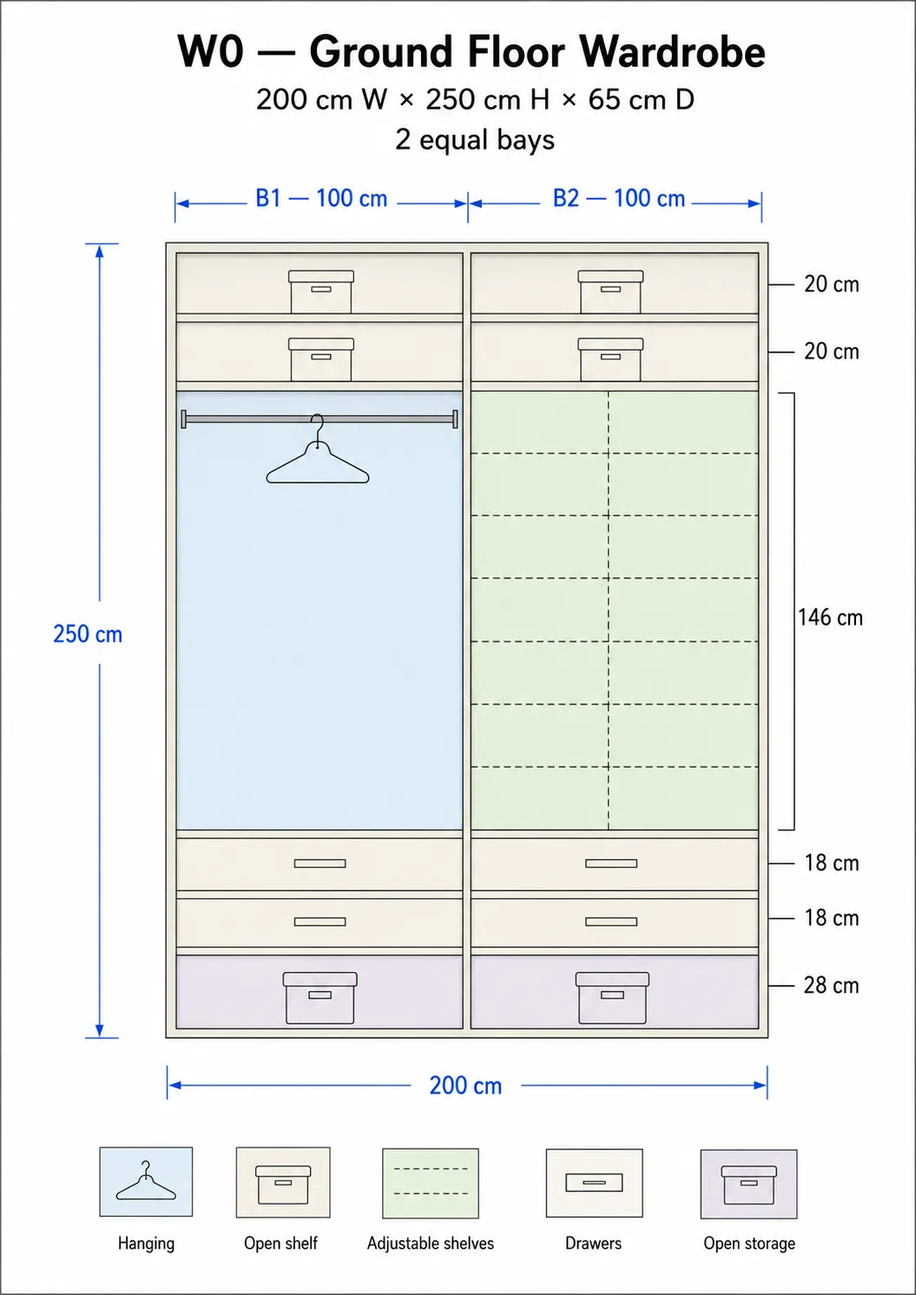
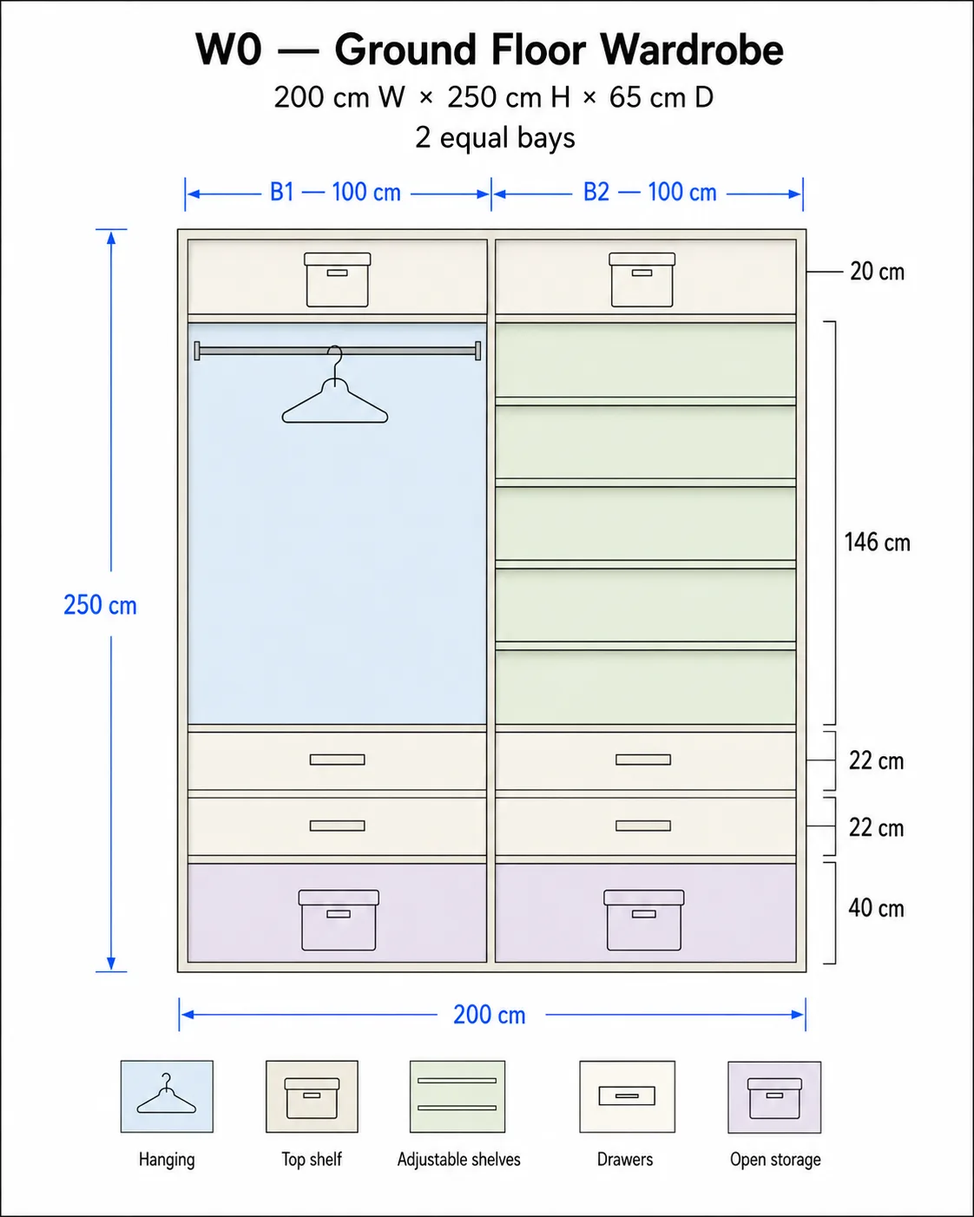
Publish site from source repo

Changed region(s): [[0.091, 0.1227, 0.9403, 0.9815], [0.182, 0.0, 0.8493, 0.1227], [0.0607, 0.184, 0.1517, 0.8281]]

diff --git a/home/jobs/2026/07/29/build-fitted-wardrobes-in-two-bedrooms/index.html b/home/jobs/2026/07/29/build-fitted-wardrobes-in-two-bedrooms/index.html
@@ -1,4 +1,4 @@
-<!DOCTYPE html><html lang="en"> <head><meta charset="utf-8"><link rel="icon" type="image/svg+xml" href="/favicon.svg"><link rel="icon" type="image/png" sizes="96x96" href="/favicon-96x96.png"><link rel="icon" href="/favicon.ico"><link rel="apple-touch-icon" sizes="180x180" href="/apple-touch-icon.png"><link rel="manifest" href="/site.webmanifest"><meta name="viewport" content="width=device-width, initial-scale=1"><meta name="generator" content="Astro v6.1.5"><meta name="description" content="Make and install two internally lit fitted wardrobes with matt solid-colour shaker doors, one on the ground floor and one on the first floor, to the dimensions and internal layouts specified."><meta name="author" content="Rahul Goma Phulore"><meta name="robots" content="noindex,nofollow"><meta name="theme-color" content="#fdf6e3"><link rel="canonical" href="https://rahul.london/home/jobs/2026/07/29/build-fitted-wardrobes-in-two-bedrooms/"><link rel="alternate" type="application/rss+xml" title="rahul.london RSS" href="https://rahul.london/rss.xml"><meta property="og:site_name" content="rahul.london"><meta property="og:locale" content="en_GB"><meta property="og:type" content="website"><meta property="og:title" content="Build fitted wardrobes in two bedrooms — Home jobs"><meta property="og:description" content="Make and install two internally lit fitted wardrobes with matt solid-colour shaker doors, one on the ground floor and one on the first floor, to the dimensions and internal layouts specified."><meta property="og:url" content="https://rahul.london/home/jobs/2026/07/29/build-fitted-wardrobes-in-two-bedrooms/"><meta name="twitter:card" content="summary"><meta name="twitter:title" content="Build fitted wardrobes in two bedrooms — Home jobs"><meta name="twitter:description" content="Make and install two internally lit fitted wardrobes with matt solid-colour shaker doors, one on the ground floor and one on the first floor, to the dimensions and internal layouts specified."><meta name="twitter:creator" content="@missingfaktor"><link rel="preconnect" href="https://fonts.googleapis.com"><link rel="preconnect" href="https://fonts.gstatic.com" crossorigin><link rel="stylesheet" href="https://fonts.googleapis.com/css2?family=Spline+Sans:wght@400;500;600;700&display=swap"><title>Build fitted wardrobes in two bedrooms — Home jobs</title><!-- Apply saved theme before first paint to avoid flash --><script>
+<!DOCTYPE html><html lang="en"> <head><meta charset="utf-8"><link rel="icon" type="image/svg+xml" href="/favicon.svg"><link rel="icon" type="image/png" sizes="96x96" href="/favicon-96x96.png"><link rel="icon" href="/favicon.ico"><link rel="apple-touch-icon" sizes="180x180" href="/apple-touch-icon.png"><link rel="manifest" href="/site.webmanifest"><meta name="viewport" content="width=device-width, initial-scale=1"><meta name="generator" content="Astro v6.1.5"><meta name="description" content="Make and install two internally lit fitted wardrobes with matt solid-colour shaker doors, one on the ground floor and one on the first floor, to the dimensions and internal layouts shown in the schematics."><meta name="author" content="Rahul Goma Phulore"><meta name="robots" content="noindex,nofollow"><meta name="theme-color" content="#fdf6e3"><link rel="canonical" href="https://rahul.london/home/jobs/2026/07/29/build-fitted-wardrobes-in-two-bedrooms/"><link rel="alternate" type="application/rss+xml" title="rahul.london RSS" href="https://rahul.london/rss.xml"><meta property="og:site_name" content="rahul.london"><meta property="og:locale" content="en_GB"><meta property="og:type" content="website"><meta property="og:title" content="Build fitted wardrobes in two bedrooms — Home jobs"><meta property="og:description" content="Make and install two internally lit fitted wardrobes with matt solid-colour shaker doors, one on the ground floor and one on the first floor, to the dimensions and internal layouts shown in the schematics."><meta property="og:url" content="https://rahul.london/home/jobs/2026/07/29/build-fitted-wardrobes-in-two-bedrooms/"><meta name="twitter:card" content="summary"><meta name="twitter:title" content="Build fitted wardrobes in two bedrooms — Home jobs"><meta name="twitter:description" content="Make and install two internally lit fitted wardrobes with matt solid-colour shaker doors, one on the ground floor and one on the first floor, to the dimensions and internal layouts shown in the schematics."><meta name="twitter:creator" content="@missingfaktor"><link rel="preconnect" href="https://fonts.googleapis.com"><link rel="preconnect" href="https://fonts.gstatic.com" crossorigin><link rel="stylesheet" href="https://fonts.googleapis.com/css2?family=Spline+Sans:wght@400;500;600;700&display=swap"><title>Build fitted wardrobes in two bedrooms — Home jobs</title><!-- Apply saved theme before first paint to avoid flash --><script>
       (function () {
         var cookieMatch = document.cookie.match(/(?:^|; )theme=([^;]+)/);
         var stored =
@@ -15,7 +15,7 @@ Home jobs
 All jobs
 </a> </nav> </header>  <a class="job-back" href="/home/jobs/">← All jobs</a> <article class="job-detail"> <header class="job-detail__header"> <div class="job-detail__eyebrow"> <span class="job-status job-status--open"> <span class="job-status__dot" aria-hidden="true"></span> Open </span> <span class="job-priority job-priority--medium"> Medium priority
 </span> </div> <h1>Build fitted wardrobes in two bedrooms</h1> <p class="job-detail__posted">
-Posted on <time datetime="2026-07-29"> 29 July 2026 </time> </p> </header> <div class="job-description"> <p>Neither the ground-floor bedroom nor the first-floor second bedroom has any built-in storage. Two fitted wardrobes are to be made and installed against the walls shown in the model views, to the dimensions and internal layouts set out below.</p><div class="job-description__list"> <p>Overall carcass sizes, both <strong>65 cm deep</strong>:</p> <ul><li>Ground floor — <strong>200 cm wide × 250 cm high</strong>, in <strong>2 equal bays of 100 cm</strong>.</li><li>First floor — <strong>260 cm wide × 207 cm high</strong>, in <strong>3 equal bays of 86.7 cm</strong>.</li></ul> </div><div class="job-carousel" data-job-carousel aria-label="Model views of both wardrobes"> <div class="job-carousel__viewport" id="build-fitted-wardrobes-in-two-bedrooms-photos-3" tabindex="0"> <div class="job-carousel__track"> <figure class="job-carousel__slide" role="group" aria-roledescription="slide" aria-label="1 of 2"> <a href="/images/home/jobs/build-fitted-wardrobes-in-two-bedrooms/ground-floor-model.webp" target="_blank" rel="noopener"> <img src="/images/home/jobs/build-fitted-wardrobes-in-two-bedrooms/ground-floor-model.webp" alt="Model view of a bedroom corner with a green four-door wardrobe along one wall, dimensioned 2.50 m high, 2.00 m wide and 0.65 m deep, next to a bay window." loading="lazy"> </a> <figcaption> <span>Ground-floor wardrobe in position, with hinged doors and a separate run of doors across the top compartments.</span> <strong>Reference</strong> </figcaption> </figure><figure class="job-carousel__slide" role="group" aria-roledescription="slide" aria-label="2 of 2"> <a href="/images/home/jobs/build-fitted-wardrobes-in-two-bedrooms/first-floor-model.webp" target="_blank" rel="noopener"> <img src="/images/home/jobs/build-fitted-wardrobes-in-two-bedrooms/first-floor-model.webp" alt="Model view of a bedroom with a deep red six-door wardrobe along one wall, dimensioned 2.07 m high, 2.60 m wide and 0.65 m deep." loading="lazy"> </a> <figcaption> <span>First-floor wardrobe in position, three bays wide with two doors to each bay.</span> <strong>Reference</strong> </figcaption> </figure> </div> </div>  <p class="job-carousel__count" aria-live="polite"> <span data-carousel-current>1</span> / 2 </p> <div class="job-carousel__controls"> <button type="button" data-carousel-previous aria-controls="build-fitted-wardrobes-in-two-bedrooms-photos-3" aria-label="Previous photo"> <svg viewBox="0 0 24 24" aria-hidden="true"> <path d="m15 18-6-6 6-6"></path> </svg> </button> <button type="button" data-carousel-next aria-controls="build-fitted-wardrobes-in-two-bedrooms-photos-3" aria-label="Next photo"> <svg viewBox="0 0 24 24" aria-hidden="true"> <path d="m9 18 6-6-6-6"></path> </svg> </button> </div>  </div> <script type="module">for(const r of document.querySelectorAll("[data-job-carousel]")){let l=function(){const t=e[0].offsetLeft;o=e.reduce((a,s,L)=>{const y=Math.abs(e[a].offsetLeft-t-n.scrollLeft);return Math.abs(s.offsetLeft-t-n.scrollLeft)<y?L:a},0),u&&(u.textContent=String(o+1)),e.forEach((a,s)=>{s===o?a.setAttribute("aria-current","true"):a.removeAttribute("aria-current")})},c=function(t){const a=(t+e.length)%e.length;n.scrollTo({left:e[a].offsetLeft-e[0].offsetLeft,behavior:"smooth"})};if(r.dataset.carouselReady==="true")continue;r.dataset.carouselReady="true";const n=r.querySelector(".job-carousel__viewport"),e=Array.from(r.querySelectorAll(".job-carousel__slide")),u=r.querySelector("[data-carousel-current]"),i=r.querySelector("[data-carousel-previous]"),d=r.querySelector("[data-carousel-next]");if(!n||e.length<2)continue;let o=0,f=0;n.addEventListener("scroll",()=>{cancelAnimationFrame(f),f=requestAnimationFrame(l)}),n.addEventListener("keydown",t=>{t.key==="ArrowLeft"&&(t.preventDefault(),c(o-1)),t.key==="ArrowRight"&&(t.preventDefault(),c(o+1))}),i?.addEventListener("click",()=>c(o-1)),d?.addEventListener("click",()=>c(o+1)),l()}</script><p>Every compartment sits behind doors. <strong>No niche or shelf is open to the room.</strong> Where the schematics read “open shelf” or “lower storage”, that means a compartment with no drawer front, still enclosed by the doors in front of it.</p><div class="job-description__list"> <p>Ground-floor wardrobe, each bay from the top:</p> <ol><li><strong>20 cm</strong> shelf compartment.</li><li><strong>20 cm</strong> shelf compartment.</li><li><strong>146 cm</strong> — full hanging rail in the left bay, adjustable shelving in the right bay.</li><li><strong>18 cm</strong> drawer.</li><li><strong>18 cm</strong> drawer.</li><li><strong>28 cm</strong> lower storage compartment.</li></ol> </div><div class="job-description__list"> <p>First-floor wardrobe, each bay from the top:</p> <ol><li><strong>22 cm</strong> shelf compartment.</li><li><strong>22 cm</strong> shelf compartment.</li><li><strong>99 cm</strong> — short hanging rail in the left bay, adjustable shelving in the middle and right bays.</li><li><strong>18 cm</strong> drawer.</li><li><strong>18 cm</strong> drawer.</li><li><strong>28 cm</strong> lower storage compartment.</li></ol> </div><p>The compartment heights add up to the full external height in both cases, <strong>250 cm</strong> and <strong>207 cm</strong>. Carcass, shelf, plinth and top-rail thicknesses should be absorbed within those figures rather than added to them.</p><div class="job-carousel" data-job-carousel aria-label="Internal layout schematics"> <div class="job-carousel__viewport" id="build-fitted-wardrobes-in-two-bedrooms-photos-8" tabindex="0"> <div class="job-carousel__track"> <figure class="job-carousel__slide" role="group" aria-roledescription="slide" aria-label="1 of 2"> <a href="/images/home/jobs/build-fitted-wardrobes-in-two-bedrooms/ground-floor-schematic.webp" target="_blank" rel="noopener"> <img src="/images/home/jobs/build-fitted-wardrobes-in-two-bedrooms/ground-floor-schematic.webp" alt="Elevation schematic of the ground-floor wardrobe, 200 cm wide by 250 cm high by 65 cm deep, split into two 100 cm bays with shelf, hanging, shelving, drawer and lower storage zones dimensioned." loading="lazy"> </a> <figcaption> <span>Ground-floor wardrobe: two equal bays, hanging on the left, adjustable shelving on the right.</span> <strong>Reference</strong> </figcaption> </figure><figure class="job-carousel__slide" role="group" aria-roledescription="slide" aria-label="2 of 2"> <a href="/images/home/jobs/build-fitted-wardrobes-in-two-bedrooms/first-floor-schematic.webp" target="_blank" rel="noopener"> <img src="/images/home/jobs/build-fitted-wardrobes-in-two-bedrooms/first-floor-schematic.webp" alt="Elevation schematic of the first-floor wardrobe, 260 cm wide by 207 cm high by 65 cm deep, split into three 86.7 cm bays with shelf, hanging, shelving, drawer and lower storage zones dimensioned." loading="lazy"> </a> <figcaption> <span>First-floor wardrobe: three equal bays, short hanging on the left, adjustable shelving in the other two.</span> <strong>Reference</strong> </figcaption> </figure> </div> </div>  <p class="job-carousel__count" aria-live="polite"> <span data-carousel-current>1</span> / 2 </p> <div class="job-carousel__controls"> <button type="button" data-carousel-previous aria-controls="build-fitted-wardrobes-in-two-bedrooms-photos-8" aria-label="Previous photo"> <svg viewBox="0 0 24 24" aria-hidden="true"> <path d="m15 18-6-6 6-6"></path> </svg> </button> <button type="button" data-carousel-next aria-controls="build-fitted-wardrobes-in-two-bedrooms-photos-8" aria-label="Next photo"> <svg viewBox="0 0 24 24" aria-hidden="true"> <path d="m9 18 6-6-6-6"></path> </svg> </button> </div>  </div> <div class="job-description__list"> <p><strong>Both wardrobes must be lit inside. This is a firm requirement, not an optional extra</strong>, and the wiring route has to be planned before the carcasses are built rather than added afterwards.</p> <ul><li><strong>Warm white LED</strong> strip or bar in <strong>every bay of both wardrobes</strong>, positioned so the light source is not in direct view.</li><li><strong>Door-activated switching</strong>, so a bay lights when its door is opened.</li><li>Drivers and cabling <strong>concealed within the carcass</strong>, with no visible trunking.</li><li>A concealed <strong>fused spur</strong> rather than a trailing plug lead. If there is no supply near either wall, that part of the work needs an electrician.</li></ul> </div><div class="job-description__list"> <p>Materials:</p> <ul><li><strong>MDF for every door and drawer front.</strong> A shaker profile cannot be made in MFC — routing the face cuts through the melamine and exposes the chipboard core, so MFC only makes flat slab fronts.</li><li><strong>MFC</strong> for carcasses, shelves and drawer boxes, with <strong>matching ABS edging</strong> on visible edges.</li><li><strong>MDF</strong> also for plinths, back panels and scribe fillets.</li><li><strong>Matt throughout. No gloss</strong>, and no woodgrain or patterned decor: plain solid colour.</li><li>Adjustable shelves on <strong>standard shelf pins</strong>, at a pitch that allows them to be moved later.</li></ul> </div><div class="job-description__list"> <p>The MDF fronts can be finished two ways. The choice decides whether the colours below are achievable, so it needs settling early:</p> <ul><li><strong>Sprayed lacquer</strong> — cut and routed to the shaker profile, primed, and spray-finished in <strong>2-pack polyurethane</strong>. Any colour, matched to a <strong>RAL</strong> or paint-brand reference. Typically <strong>22 mm</strong> board. The more expensive route.</li><li><strong>Vinyl or foil wrap</strong> — the profile is pressed and wrapped at the factory. Typically <strong>16–18 mm</strong>. Cheaper, but the colour has to be picked from the <strong>wrapper's standard range</strong>, and the weak point is the <strong>edges and seams</strong>, where a wrap can lift over time.</li><li>Wrap peeling is mostly a kitchen failure, caused by heat and steam from ovens and kettles. <strong>Neither wardrobe is in a kitchen</strong>, so that risk is much lower here — but the edge detail is still where a wrap goes first.</li></ul> </div><p>Doors and carcasses are different boards finished by different processes, so they will not match by being ordered to the same colour name. <strong>The door and carcass samples must be approved together, side by side</strong>, before anything is ordered. Visible outer surfaces — end panels, plinth and top rail — should match the doors rather than the carcass interiors.</p><div class="job-swatches"> <p>One solid colour per wardrobe. The values below are indicative for discussion only. <strong>A custom colour like these needs the sprayed route</strong>; a wrapped door means taking the nearest colour in the wrap range instead.</p> <ul> <li> <span class="job-swatches__chip" style="--swatch: #6e7f6d" aria-hidden="true"></span> <span class="job-swatches__label"> <strong>Eucalyptus green</strong> <span class="job-swatches__hex">#6e7f6d</span> <span class="job-swatches__note">Ground-floor wardrobe.</span> </span> </li><li> <span class="job-swatches__chip" style="--swatch: #733635" aria-hidden="true"></span> <span class="job-swatches__label"> <strong>Garnet red</strong> <span class="job-swatches__hex">#733635</span> <span class="job-swatches__note">First-floor wardrobe.</span> </span> </li> </ul> </div><div class="job-description__list"> <p>Style is simple Scandinavian: quiet, solid and unfussy.</p> <ul><li><strong>Shaker doors and drawer fronts throughout</strong>, on both wardrobes: a plain frame around a recessed flat centre panel. <strong>Flat slab fronts and fully flush trimless detailing are not wanted.</strong></li><li><strong>Slim plain handles</strong>, bar or tubular, in one finish across both wardrobes.</li><li>Hinged doors, <strong>two to a bay</strong>, with separate shorter doors over the upper compartments as drawn.</li><li><strong>Soft-close hinges and drawer runners</strong> throughout.</li><li>Scribed to the walls, floor and ceiling. Both rooms should be assumed to be out of true.</li></ul> </div><p>On the first-floor wardrobe, <strong>both tall doors of the middle bay</strong> are to carry <strong>full-length mirrors</strong>. The mirror takes the place of the centre panel and runs the <strong>full height of the door</strong>, rather than a small mirror set into a larger front. Safety-backed, and held by the shaker frame rather than fixed on afterwards.</p> </div> <section class="job-section job-materials" aria-labelledby="materials-heading"> <h2 id="materials-heading">Materials</h2> <ul> <li>MDF for every shaker door and drawer front, either <strong>22 mm</strong> for spraying or <strong>16–18 mm</strong> wrapped</li><li><strong>2-pack polyurethane</strong> spray finish, or factory vinyl wrap, whichever route is chosen</li><li>MFC panels for the ground-floor carcasses in the nearest <strong>matt eucalyptus green</strong> decor</li><li>MFC panels for the first-floor carcasses in the nearest <strong>matt garnet red</strong> decor</li><li>Matching ABS edging</li><li>MDF for plinths, back panels and scribe fillets</li><li>Hanging rails and end supports</li><li>Soft-close hinges, drawer runners and shelf pins</li><li>Safety-backed full-length mirrors for both tall doors of the first-floor middle bay</li><li>Slim bar handles in a single finish</li><li>Warm white LED strips, drivers and door switches</li> </ul> </section>  </article>  </div>  </main> </div>  <script type="module">const c=document.getElementById("theme-toggle"),t=document.getElementById("theme-icon"),m=`
+Posted on <time datetime="2026-07-29"> 29 July 2026 </time> </p> </header> <div class="job-description"> <p>Neither the ground-floor bedroom nor the first-floor second bedroom has any built-in storage. Two fitted wardrobes are to be made and installed against the walls shown in the model views. The schematics below give the carcass sizes, the bay widths, and the internal layout of each bay, and are the reference for all of it.</p><div class="job-carousel" data-job-carousel aria-label="Model views of both wardrobes"> <div class="job-carousel__viewport" id="build-fitted-wardrobes-in-two-bedrooms-photos-2" tabindex="0"> <div class="job-carousel__track"> <figure class="job-carousel__slide" role="group" aria-roledescription="slide" aria-label="1 of 2"> <a href="/images/home/jobs/build-fitted-wardrobes-in-two-bedrooms/ground-floor-model.webp" target="_blank" rel="noopener"> <img src="/images/home/jobs/build-fitted-wardrobes-in-two-bedrooms/ground-floor-model.webp" alt="Model view of a bedroom corner with a green four-door wardrobe along one wall, dimensioned 2.50 m high, 2.00 m wide and 0.65 m deep, next to a bay window." loading="lazy"> </a> <figcaption> <span>Ground-floor wardrobe in position, with hinged doors and a separate run of doors across the top compartments.</span> <strong>Reference</strong> </figcaption> </figure><figure class="job-carousel__slide" role="group" aria-roledescription="slide" aria-label="2 of 2"> <a href="/images/home/jobs/build-fitted-wardrobes-in-two-bedrooms/first-floor-model.webp" target="_blank" rel="noopener"> <img src="/images/home/jobs/build-fitted-wardrobes-in-two-bedrooms/first-floor-model.webp" alt="Model view of a bedroom with a deep red six-door wardrobe along one wall, dimensioned 2.07 m high, 2.60 m wide and 0.65 m deep." loading="lazy"> </a> <figcaption> <span>First-floor wardrobe in position, three bays wide with two doors to each bay.</span> <strong>Reference</strong> </figcaption> </figure> </div> </div>  <p class="job-carousel__count" aria-live="polite"> <span data-carousel-current>1</span> / 2 </p> <div class="job-carousel__controls"> <button type="button" data-carousel-previous aria-controls="build-fitted-wardrobes-in-two-bedrooms-photos-2" aria-label="Previous photo"> <svg viewBox="0 0 24 24" aria-hidden="true"> <path d="m15 18-6-6 6-6"></path> </svg> </button> <button type="button" data-carousel-next aria-controls="build-fitted-wardrobes-in-two-bedrooms-photos-2" aria-label="Next photo"> <svg viewBox="0 0 24 24" aria-hidden="true"> <path d="m9 18 6-6-6-6"></path> </svg> </button> </div>  </div> <script type="module">for(const r of document.querySelectorAll("[data-job-carousel]")){let l=function(){const t=e[0].offsetLeft;o=e.reduce((a,s,L)=>{const y=Math.abs(e[a].offsetLeft-t-n.scrollLeft);return Math.abs(s.offsetLeft-t-n.scrollLeft)<y?L:a},0),u&&(u.textContent=String(o+1)),e.forEach((a,s)=>{s===o?a.setAttribute("aria-current","true"):a.removeAttribute("aria-current")})},c=function(t){const a=(t+e.length)%e.length;n.scrollTo({left:e[a].offsetLeft-e[0].offsetLeft,behavior:"smooth"})};if(r.dataset.carouselReady==="true")continue;r.dataset.carouselReady="true";const n=r.querySelector(".job-carousel__viewport"),e=Array.from(r.querySelectorAll(".job-carousel__slide")),u=r.querySelector("[data-carousel-current]"),i=r.querySelector("[data-carousel-previous]"),d=r.querySelector("[data-carousel-next]");if(!n||e.length<2)continue;let o=0,f=0;n.addEventListener("scroll",()=>{cancelAnimationFrame(f),f=requestAnimationFrame(l)}),n.addEventListener("keydown",t=>{t.key==="ArrowLeft"&&(t.preventDefault(),c(o-1)),t.key==="ArrowRight"&&(t.preventDefault(),c(o+1))}),i?.addEventListener("click",()=>c(o-1)),d?.addEventListener("click",()=>c(o+1)),l()}</script><div class="job-carousel" data-job-carousel aria-label="Internal layout schematics"> <div class="job-carousel__viewport" id="build-fitted-wardrobes-in-two-bedrooms-photos-3" tabindex="0"> <div class="job-carousel__track"> <figure class="job-carousel__slide" role="group" aria-roledescription="slide" aria-label="1 of 2"> <a href="/images/home/jobs/build-fitted-wardrobes-in-two-bedrooms/ground-floor-schematic.webp" target="_blank" rel="noopener"> <img src="/images/home/jobs/build-fitted-wardrobes-in-two-bedrooms/ground-floor-schematic.webp" alt="Elevation schematic of the ground-floor wardrobe, 200 cm wide by 250 cm high by 65 cm deep, split into two equal 100 cm bays. A shelf compartment runs across the top of both bays. Below it the left bay is hanging space the full depth of the run and the right bay is adjustable shelving. Two drawers and then a deep open storage compartment sit at the foot of each bay." loading="lazy"> </a> <figcaption> <span>Ground-floor wardrobe: two equal bays, hanging on the left, adjustable shelving on the right, with the deep storage compartment at the very bottom.</span> <strong>Reference</strong> </figcaption> </figure><figure class="job-carousel__slide" role="group" aria-roledescription="slide" aria-label="2 of 2"> <a href="/images/home/jobs/build-fitted-wardrobes-in-two-bedrooms/first-floor-schematic.webp" target="_blank" rel="noopener"> <img src="/images/home/jobs/build-fitted-wardrobes-in-two-bedrooms/first-floor-schematic.webp" alt="Elevation schematic of the first-floor wardrobe, 260 cm wide by 207 cm high by 65 cm deep, split into three equal 86.7 cm bays. The outer two bays have two shelf compartments at the top over a run of adjustable shelving. The middle bay has one shelf compartment over a short hanging rail. All three bays finish with an open storage compartment and then two drawers at the very bottom." loading="lazy"> </a> <figcaption> <span>First-floor wardrobe: three equal bays, short hanging in the middle bay, adjustable shelving either side, with the drawers at the very bottom.</span> <strong>Reference</strong> </figcaption> </figure> </div> </div>  <p class="job-carousel__count" aria-live="polite"> <span data-carousel-current>1</span> / 2 </p> <div class="job-carousel__controls"> <button type="button" data-carousel-previous aria-controls="build-fitted-wardrobes-in-two-bedrooms-photos-3" aria-label="Previous photo"> <svg viewBox="0 0 24 24" aria-hidden="true"> <path d="m15 18-6-6 6-6"></path> </svg> </button> <button type="button" data-carousel-next aria-controls="build-fitted-wardrobes-in-two-bedrooms-photos-3" aria-label="Next photo"> <svg viewBox="0 0 24 24" aria-hidden="true"> <path d="m9 18 6-6-6-6"></path> </svg> </button> </div>  </div> <p>Every compartment sits behind doors. <strong>No niche or shelf is open to the room.</strong> Where a schematic reads “open storage”, that means a compartment with no drawer front, still enclosed by the doors in front of it.</p><div class="job-description__list"> <p>Two things the schematics do not show on their face:</p> <ul><li>The compartment heights in a bay <strong>add up to the full external carcass height</strong>. Carcass, shelf, plinth and top-rail thicknesses are to be <strong>absorbed within</strong> those figures, not added to them.</li><li>The three bays of the first-floor wardrobe are <strong>not identical inside</strong>. The middle bay omits the second shelf compartment so that its hanging space can run higher; the outer two keep both. Every horizontal division below that still lines up across all three bays.</li></ul> </div><div class="job-description__list"> <p><strong>Both wardrobes must be lit inside. This is a firm requirement, not an optional extra</strong>, and the wiring route has to be planned before the carcasses are built rather than added afterwards.</p> <ul><li><strong>Warm white LED</strong> strip or bar in <strong>every bay of both wardrobes</strong>, positioned so the light source is not in direct view.</li><li><strong>Door-activated switching</strong>, so a bay lights when its door is opened.</li><li>Drivers and cabling <strong>concealed within the carcass</strong>, with no visible trunking.</li><li>A concealed <strong>fused spur</strong> rather than a trailing plug lead. If there is no supply near either wall, that part of the work needs an electrician.</li></ul> </div><div class="job-description__list"> <p>Materials:</p> <ul><li><strong>MDF for every door and drawer front.</strong> A shaker profile cannot be made in MFC — routing the face cuts through the melamine and exposes the chipboard core, so MFC only makes flat slab fronts.</li><li><strong>MFC</strong> for carcasses, shelves and drawer boxes, with <strong>matching ABS edging</strong> on visible edges.</li><li><strong>MDF</strong> also for plinths, back panels and scribe fillets.</li><li><strong>Matt throughout. No gloss</strong>, and no woodgrain or patterned decor: plain solid colour.</li><li>Adjustable shelves on <strong>standard shelf pins</strong>, at a pitch that allows them to be moved later.</li></ul> </div><div class="job-description__list"> <p>The MDF fronts can be finished two ways. The choice decides whether the colours below are achievable, so it needs settling early:</p> <ul><li><strong>Sprayed lacquer</strong> — cut and routed to the shaker profile, primed, and spray-finished in <strong>2-pack polyurethane</strong>. Any colour, matched to a <strong>RAL</strong> or paint-brand reference. Typically <strong>22 mm</strong> board. The more expensive route.</li><li><strong>Vinyl or foil wrap</strong> — the profile is pressed and wrapped at the factory. Typically <strong>16–18 mm</strong>. Cheaper, but the colour has to be picked from the <strong>wrapper's standard range</strong>, and the weak point is the <strong>edges and seams</strong>, where a wrap can lift over time.</li><li>Wrap peeling is mostly a kitchen failure, caused by heat and steam from ovens and kettles. <strong>Neither wardrobe is in a kitchen</strong>, so that risk is much lower here — but the edge detail is still where a wrap goes first.</li></ul> </div><p>Doors and carcasses are different boards finished by different processes, so they will not match by being ordered to the same colour name. <strong>The door and carcass samples must be approved together, side by side</strong>, before anything is ordered. Visible outer surfaces — end panels, plinth and top rail — should match the doors rather than the carcass interiors.</p><div class="job-swatches"> <p>One solid colour per wardrobe. The values below are indicative for discussion only. <strong>A custom colour like these needs the sprayed route</strong>; a wrapped door means taking the nearest colour in the wrap range instead.</p> <ul> <li> <span class="job-swatches__chip" style="--swatch: #6e7f6d" aria-hidden="true"></span> <span class="job-swatches__label"> <strong>Eucalyptus green</strong> <span class="job-swatches__hex">#6e7f6d</span> <span class="job-swatches__note">Ground-floor wardrobe.</span> </span> </li><li> <span class="job-swatches__chip" style="--swatch: #733635" aria-hidden="true"></span> <span class="job-swatches__label"> <strong>Garnet red</strong> <span class="job-swatches__hex">#733635</span> <span class="job-swatches__note">First-floor wardrobe.</span> </span> </li> </ul> </div><div class="job-description__list"> <p>Style is simple Scandinavian: quiet, solid and unfussy.</p> <ul><li><strong>Shaker doors and drawer fronts throughout</strong>, on both wardrobes: a plain frame around a recessed flat centre panel. <strong>Flat slab fronts and fully flush trimless detailing are not wanted.</strong></li><li><strong>Slim plain handles</strong>, bar or tubular, in one finish across both wardrobes.</li><li>Hinged doors, <strong>two to a bay</strong>, with separate shorter doors over the upper compartments as drawn.</li><li><strong>Soft-close hinges and drawer runners</strong> throughout.</li><li>Scribed to the walls, floor and ceiling. Both rooms should be assumed to be out of true.</li></ul> </div><p>On the first-floor wardrobe, <strong>both tall doors of the middle bay</strong> are to carry <strong>full-length mirrors</strong>. The mirror takes the place of the centre panel and runs the <strong>full height of the door</strong>, rather than a small mirror set into a larger front. Safety-backed, and held by the shaker frame rather than fixed on afterwards.</p> </div> <section class="job-section job-materials" aria-labelledby="materials-heading"> <h2 id="materials-heading">Materials</h2> <ul> <li>MDF for every shaker door and drawer front, either <strong>22 mm</strong> for spraying or <strong>16–18 mm</strong> wrapped</li><li><strong>2-pack polyurethane</strong> spray finish, or factory vinyl wrap, whichever route is chosen</li><li>MFC panels for the ground-floor carcasses in the nearest <strong>matt eucalyptus green</strong> decor</li><li>MFC panels for the first-floor carcasses in the nearest <strong>matt garnet red</strong> decor</li><li>Matching ABS edging</li><li>MDF for plinths, back panels and scribe fillets</li><li>Hanging rails and end supports</li><li>Soft-close hinges, drawer runners and shelf pins</li><li>Safety-backed full-length mirrors for both tall doors of the first-floor middle bay</li><li>Slim bar handles in a single finish</li><li>Warm white LED strips, drivers and door switches</li> </ul> </section>  </article>  </div>  </main> </div>  <script type="module">const c=document.getElementById("theme-toggle"),t=document.getElementById("theme-icon"),m=`
         <circle cx="12" cy="12" r="4" />
         <path d="M12 2.5v2.25M12 19.25v2.25M21.5 12h-2.25M4.75 12H2.5M18.72 5.28l-1.59 1.59M6.87 17.13l-1.59 1.59M18.72 18.72l-1.59-1.59M6.87 6.87L5.28 5.28" />
       `,d=`
